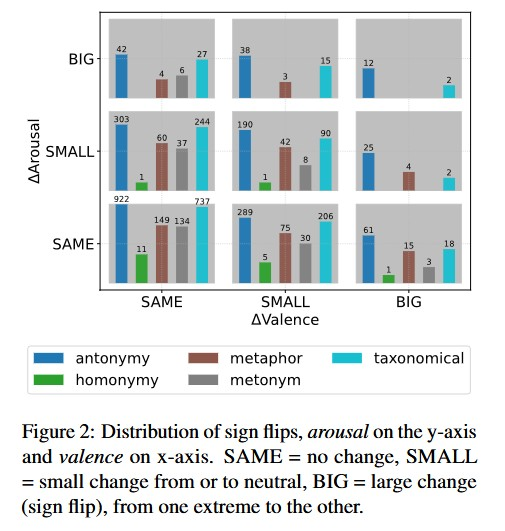
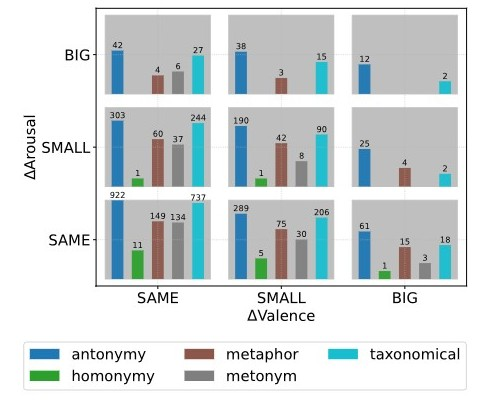
ud

diff --git a/content/_index.md b/content/_index.md
@@ -33,21 +33,21 @@ sections:
 
   - block: markdown
     content:
-      title: 'Research Program'
+      title: 'Research Overview'
       subtitle: ''
       text: |-
 
-        Broadly, my research uses computational methods to study how meanings and concepts change over time, and how those shifts reflect wider cultural and social dynamics. At the intersection of NLP, computational social science, and psychology, I develop theory-informed approaches for tracing semantic and conceptual change in historical text corpora using contextual embeddings, large language models, lexical resources, and statistical modeling. My current work focuses especially on mental health language, media discourse, and socially contested language.
+        I develop theory-informed computational methods for studying how meanings change in mental health, media, and socially contested language. My work sits at the intersection of NLP, computational social science, and psychology, combining historical text corpora, contextual embeddings, lexical resources, large language models, and statistical modeling.
 
-        **Research themes**
+        **Research streams**
 
         **Semantic and conceptual change**  
         Methods for studying how meanings shift across time, including multidimensional approaches to lexical semantic change and synthetic benchmarks for method evaluation.  
-        Key work: [SIBling](/publication/journal-article_2024_acl_sibling/), [LSC-Eval](/publication/preprint_2025/), [Schizophrenia WSD](/publication/workshop-paper-2026_sense-prevalence/).
+        Key work: [SIBling](/publication/journal-article_2024_acl_sibling/), [LSC-Eval](/publication/preprint_2025/), [Diachronic WSD](/publication/workshop-paper-2026_sense-prevalence/).
 
         **Mental health language and media discourse**  
         Applications to mental-health concepts and terminology, examining how meanings and representations shift across psychology, news media, books, and everyday language.  
-        Key work: trauma, schizophrenia, ADHD, anxiety/depression, and generic mental-health terminology papers.
+        Selected work: case studies of *trauma*, *schizophrenia*, generic and emotion mental health terminology, and collaborative projects on *ADHD*, *anxiety* and *depression*.
 
         **Meaning representations in humans and language models**  
         Benchmarking how humans and language models represent word meanings, senses, connotation, denotation, valence, and arousal.  
@@ -55,7 +55,7 @@ sections:
 
         **Socially contested language**  
         Computational social science work on evaluative, dehumanizing, identity-related, and contested language in online and public discourse.  
-        Key work: ICWSM dehumanization paper, mental-health stigma benchmark, identity/person-first language paper, and common-good work.
+        Selected collaborative work: ICWSM dehumanization paper, mental-health stigma benchmark, identity/person-first language paper, and common-good work.
 
     design:
       columns: '1'
@@ -72,6 +72,31 @@ sections:
       view: article-grid
       columns: 2
 
+  - block: markdown
+    content:
+      title: Highlights
+      text: |
+        <div style="font-size: 1rem">
+
+        - **ACL 2026:** Joint-first author on *SenseRel*, a sense-level benchmark for denotational and connotational meaning relations, from my Change is Key! internship (https://www.changeiskey.org/post/25-08-04-naomi-visit/).
+
+        - **ICWSM 2026:** Lead author of a computational social science paper on dehumanization in incel discourse.
+
+        - **Research funding:** Co-recipient of **AUD $15,000 Hallmark Research Initiative seed funding** (team of 7) for a project on automatic evaluation of mental-health stigma in online communication, led by the amazing Yulia Otmakhova(https://scholar.google.com/citations?user=yzaozUUAAAAJ&hl=en).
+
+        - **Leadership and service:** Australian English Language Co-Lead with Christine De Kock for the BLEnD SemEval-2026 Shared Task(https://www.codabench.org/competitions/10281/); Program Chair/PC for LChange'26 Workshop (https://www.changeiskey.org/event/2026-eacl-lchange/); Romanian dataset contributos to the ACL 2025 Best Resource Paper Award-winning BRIGHTER dataset (https://aclanthology.org/2025.acl-long.436/).
+
+        - **Invited talks:** Presented work on semantic change at Utrecht University, the University of Gothenburg, the National Research Council Canada, and the University of Melbourne Mental Health PhD Program.
+
+        - **Findings of ACL 2025:** Lead author of **LSC-Eval**, a framework for evaluating methods for detecting dimensions of lexical semantic change using LLM-generated synthetic data.
+
+        - **ACL 2024:** Lead author of **SIBling**, a multidimensional framework for modeling lexical semantic change with social science applications.
+
+        </div>
+    design:
+      columns: 1
+      css_class: mt-4
+
   - block: collection
     content:
       title: Selected Publications
@@ -86,7 +111,7 @@ sections:
   - block: collection
     id: talks
     content:
-      title: Invited Talks
+      title: Selected Talks
       filters:
         folders:
           - talks
@@ -122,22 +147,5 @@ sections:
       spacing:
         padding: [0, 0, 0, 0]
 
-  - block: markdown
-    content:
-      title: Highlights
-      text: |
-        <div style="font-size: 1rem">
 
-        - New sense-tracking pipeline for estimating the prevalence of word senses in historical text corpora: [link](https://www.linkedin.com/feed/update/urn:li:activity:7443471238037106688/?originTrackingId=xIHOlBlkEQxOUDp18rzxEQ%3D%3D)
-
-        - Delighted to share my PhD research at (1) the Change is Key! conference in Gothenburg (Sweden), (2) University of Utrecht (Netherlands), (3) National Research Council Canada, (4) the Mental Health PhD Program Conference!, and (5) The LChange'26 Workshop, colocated with EACL.
-
-        - **5 Aug – 30 Sept 2025** — [Interned](https://www.changeiskey.org/post/25-08-04-naomi-visit/) at **[Change is Key!](https://www.changeiskey.org/about/)**. The program develops computational tools to trace how language, society, and culture evolve, applying NLP and corpus methods to study semantic change and variation across linguistics, digital humanities, and the social sciences.
-
-        - *Corpus data* and *scripts* publicly available — see [Resources](https://naomibaes.github.io/resources/) tab.
-
-        </div>
-    design:
-      columns: 1
-      css_class: mt-4
 ---

diff --git a/content/publication/journal-article_2026_ACL-Main/index.md b/content/publication/journal-article_2026_ACL-Main/index.md
@@ -2,9 +2,9 @@
 title: 'Sense Rel: A Sense-Level Benchmark for Denotational and Connotational Meaning Relations'
 
 authors:
-  - Pierluigi Cassotti
-  - admin
-  - Stefano De Pascale
+  - Pierluigi Cassotti*
+  - admin*
+  - Stefano De Pascale*
   - Jader Martins Camboim de Sá
   - Francesco Periti
   - Nick Haslam

diff --git a/content/authors/admin/_index.md b/content/authors/admin/_index.md
@@ -20,7 +20,7 @@ superuser: true
 highlight_name: true
 
 # Role/position/tagline
-role: PhD Candidate | NLP · Computational Social Science · Psychology
+role: NLP & Computational Social Science Researcher | Semantic Change · Mental Health Concepts · Socially Contested Language
 
 # Organizations/Affiliations to display in Biography blox
 organizations:
@@ -196,4 +196,4 @@ education:
 
 ## About Me
 
-I am an NLP and computational social science researcher studying how meanings and concepts change across time, domains, and communities. My work combines historical text corpora, contextual embeddings, lexical resources, statistical modeling, and large language models to study semantic and conceptual change in mental health language, media discourse, and socially contested language. I led the development of **SIBling**, a framework for modeling semantic change across the dimensions of Sentiment, Intensity, and Breadth, and **LSC-Eval**, a benchmarking framework for evaluating methods for detecting lexical semantic change using synthetic historical data. More broadly, I am interested in language change and variation, conceptual change, mental health discourse, human--LLM evaluation, and computational approaches to culturally important questions.
+I am an NLP and computational social science researcher studying how meanings and concepts change across time, domains, and communities. My work combines historical text corpora, contextual embeddings, lexical resources, statistical modeling, and large language models to study semantic and conceptual change in mental health language, media discourse, and socially contested language. I led the development of **SIBling**, a framework for modeling semantic change across the dimensions of Sentiment, Intensity, and Breadth, and **LSC-Eval**, a benchmarking framework for evaluating methods for detecting lexical semantic change using synthetic historical data. More broadly, I am interested in language change and variation, conceptual change, mental health concepts, human--LLM evaluation, and computational approaches to culturally important questions.

diff --git a/content/talks/NLTP_lab_2025/index.md b/content/talks/NLTP_lab_2025/index.md
@@ -24,6 +24,6 @@ url_slides: "https://www.slideshare.net/slideshow/dimensions-of-semantic-change-
 
 
 authors: ["admin"]
-featured: true
+featured: false
 projects: []
 ---